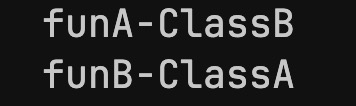
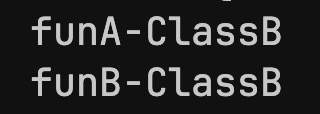
added Quiz 3 Example

Changed region(s): [[0.0938, 0.0566, 0.875, 0.4245], [0.0938, 0.5377, 0.875, 0.8491], [0.6875, 0.0, 0.7188, 0.0283]]

diff --git a/OOP/Polymorphism/polymorphism.cpp b/OOP/Polymorphism/polymorphism.cpp
@@ -55,7 +55,7 @@ public:
 
 int main()
 {
-    A *a = new B();
+    B *a = new B();
     a->funA();
     a->funB();
     a->funC();
